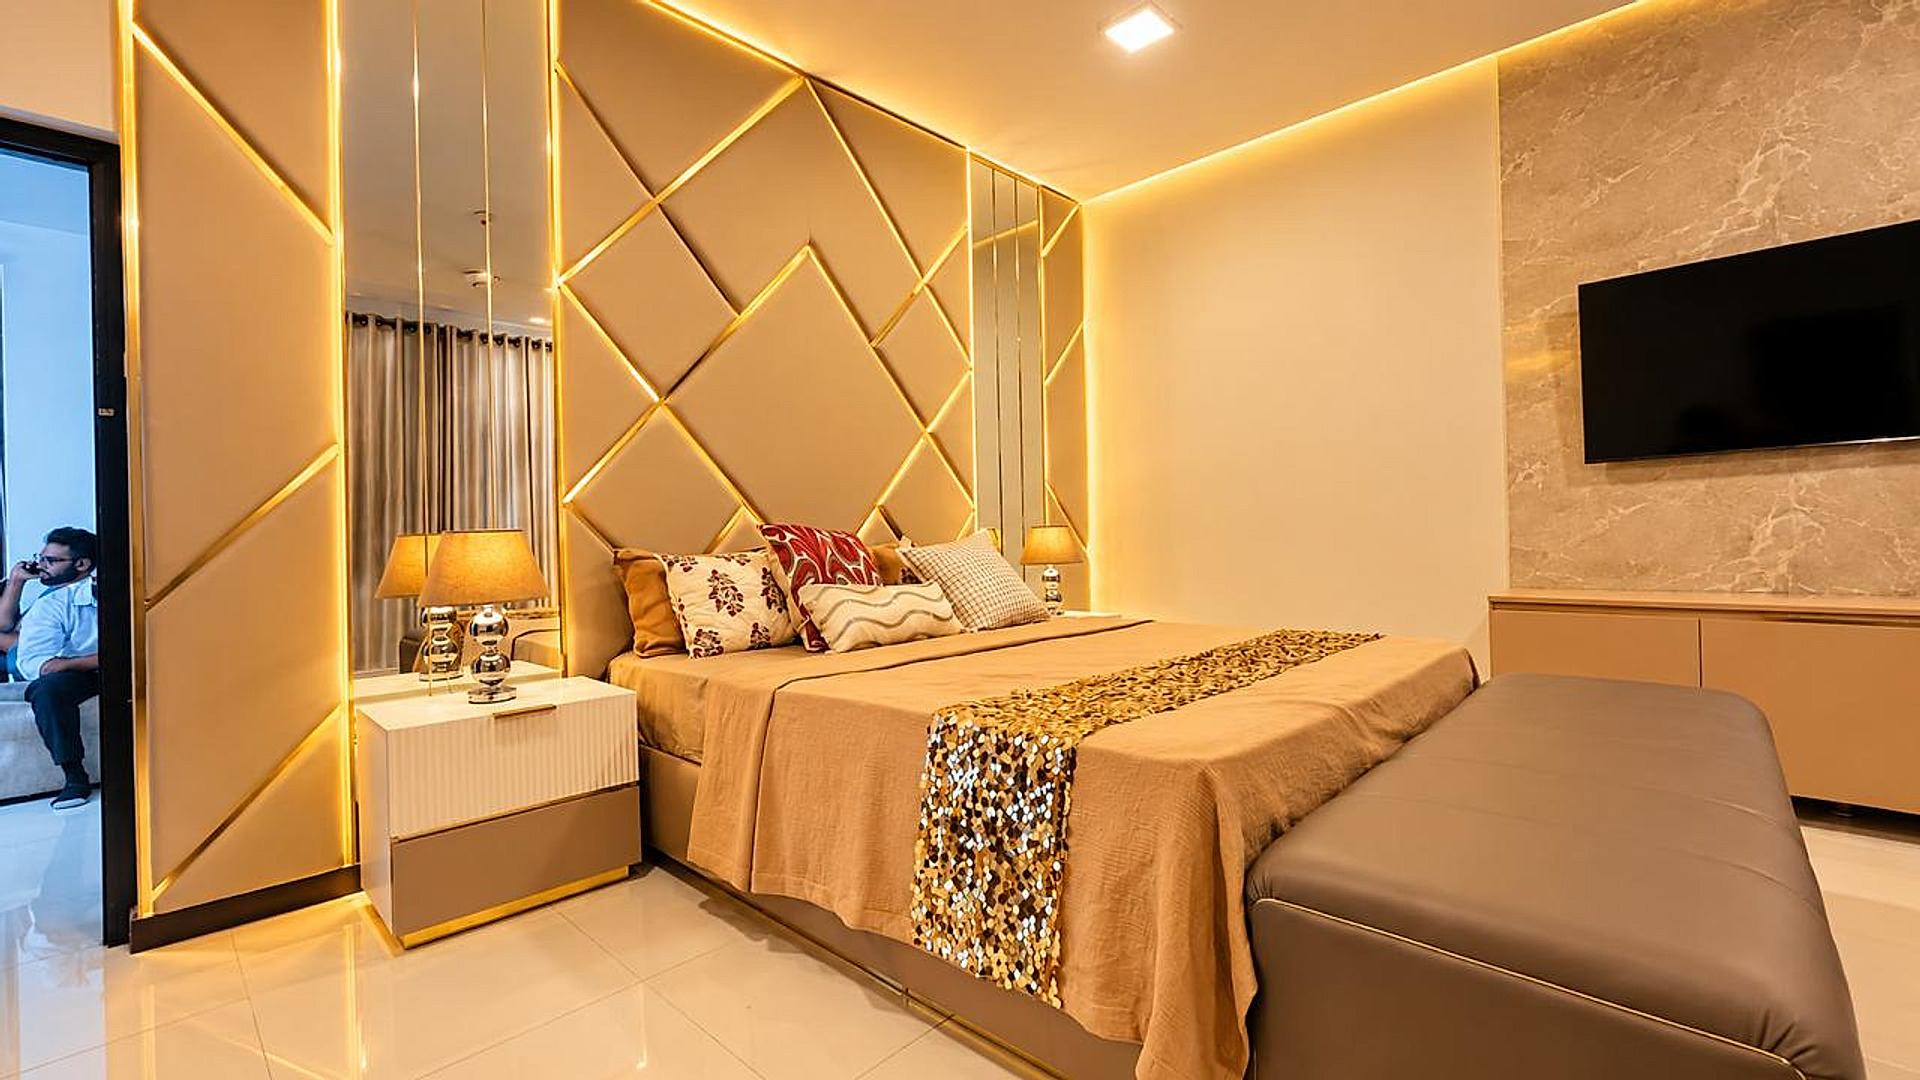
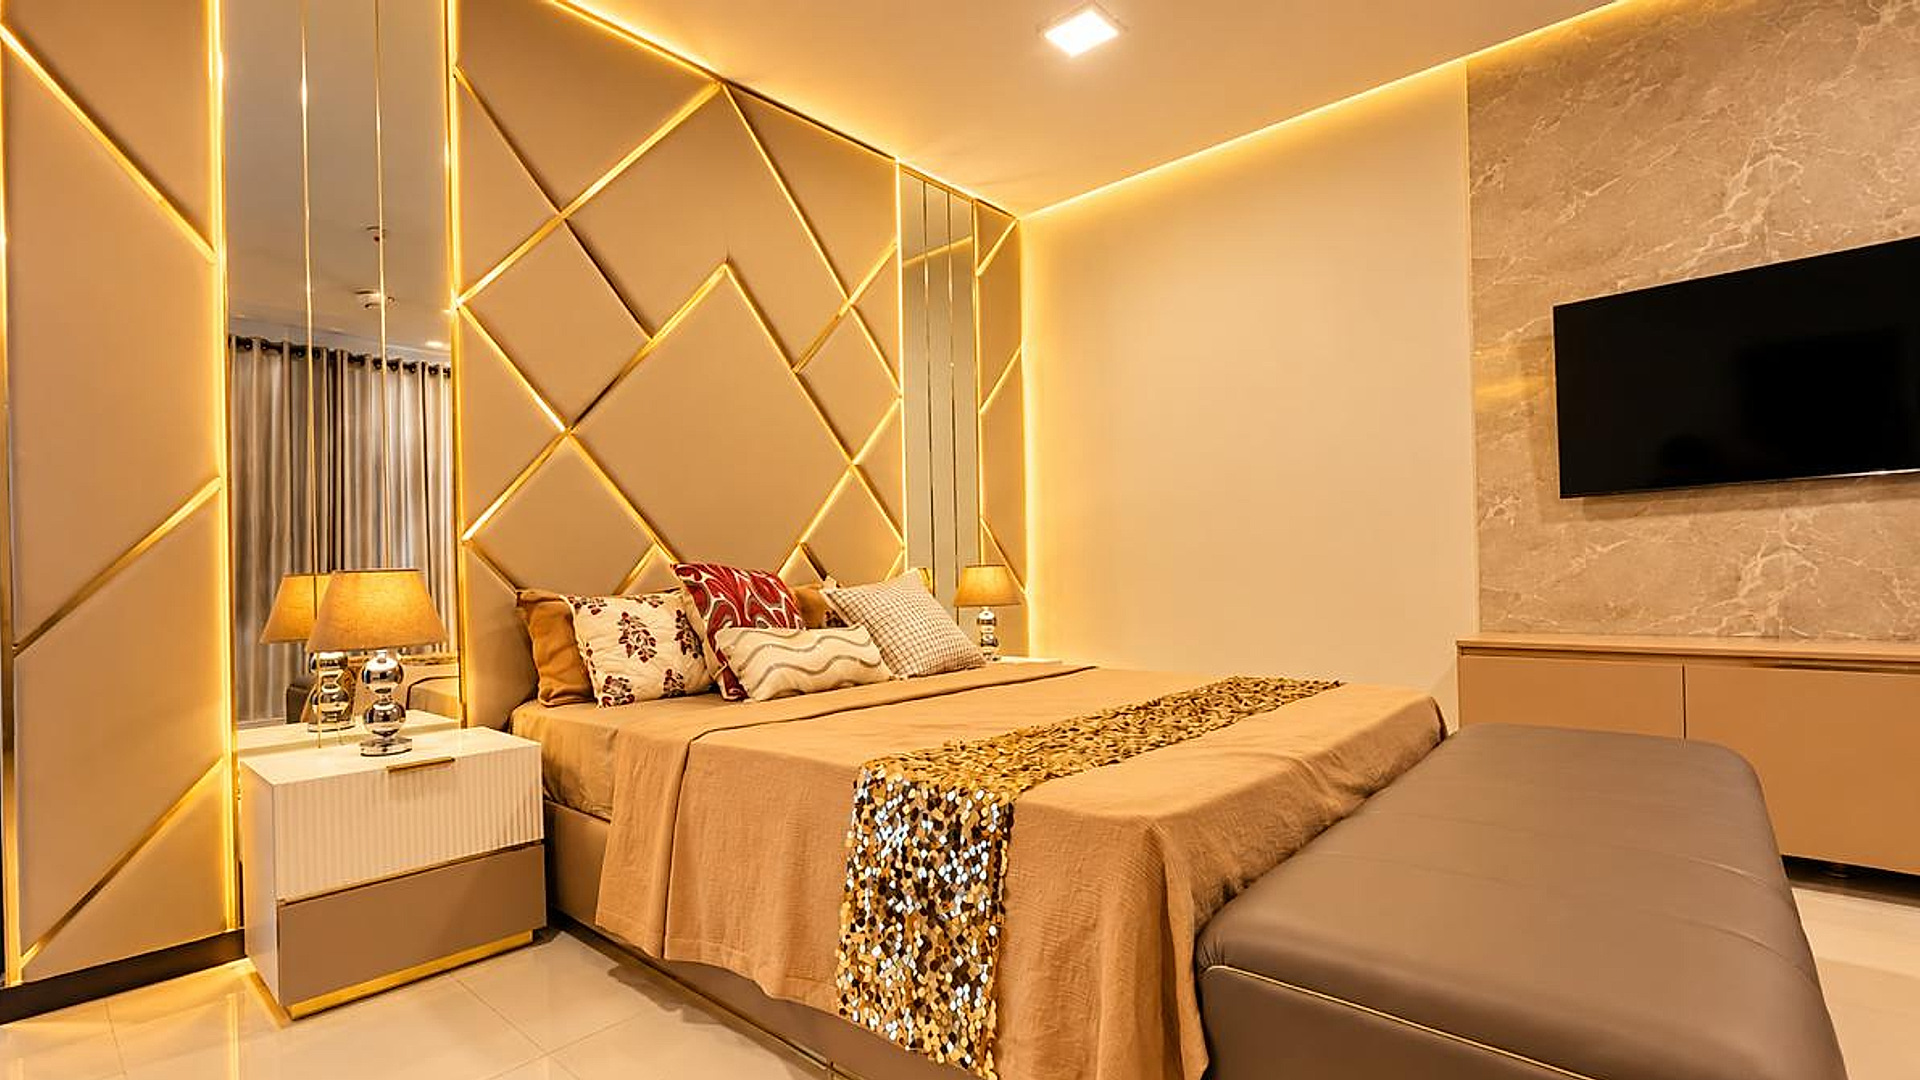
Restore Master Sanctuaries hero slide and update photo to matching illuminated geometric headboard

diff --git a/components/WildHero.jsx b/components/WildHero.jsx
@@ -28,20 +28,9 @@ const HERO_SLIDES = [
     objectPosition: 'center 40%',
   },
   {
-    id: 'alluring-boutique',
-    image: '/images/hero/hero-alluring-jewellery.jpeg',
-    titleLine1: 'Haute Retail Salons,',
-    titleLine2: 'Curated Exhibition Craft.',
-    tagline: 'Alluring Jewellery Flagship: illuminated gold vitrines, velvet consultation lounges, and precision joinery.',
-    ctaText: 'Explore Retail Works',
-    ctaHref: '/works',
-    alt: 'Alluring Jewellery Flagship boutique designed and crafted by Design Ark',
-    objectPosition: 'center center',
-  },
-  {
     id: 'kirsche-boutique',
     image: '/images/hero/hero-kirsche-boutique.jpeg',
-    titleLine1: 'Commercial Facades,',
+    titleLine1: 'Haute Retail Flagships,',
     titleLine2: 'Atmospheric Architecture.',
     tagline: 'Kirsche commercial retail flagship: illuminated 3D golden facade and bespoke exhibition vitrines.',
     ctaText: 'View Works Archive',
